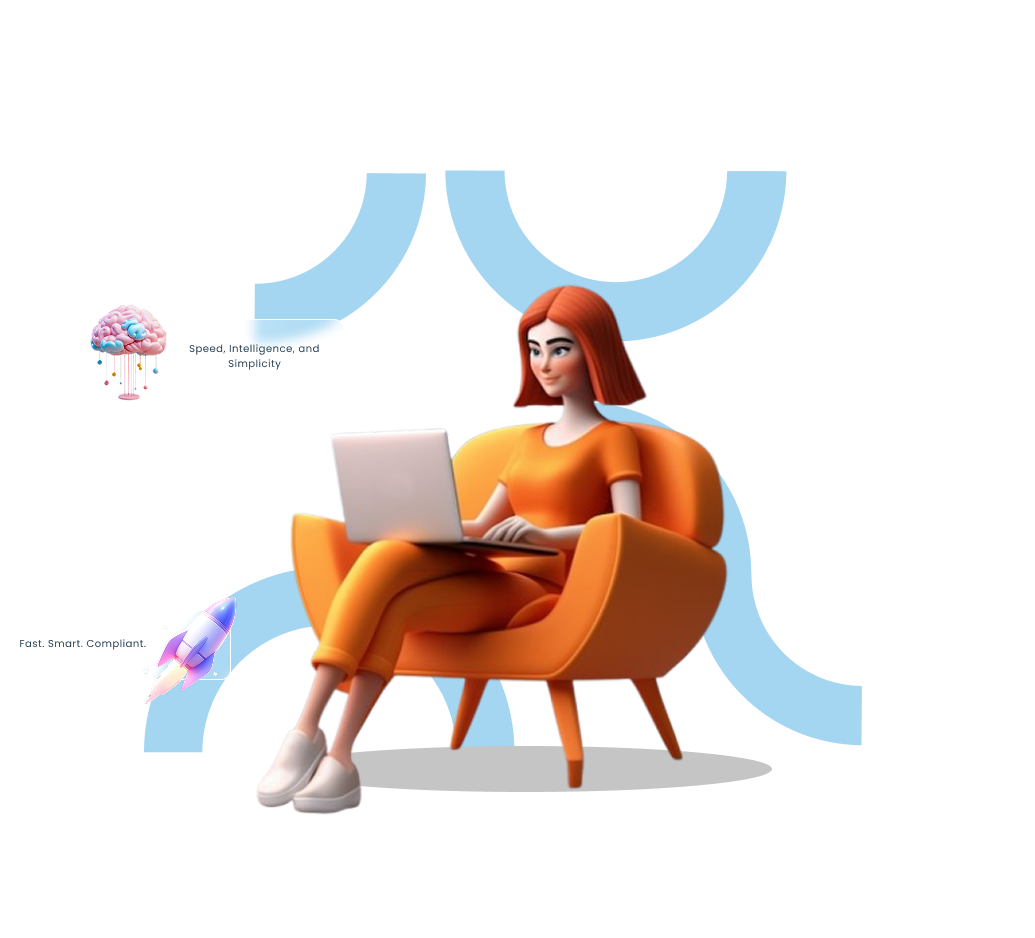
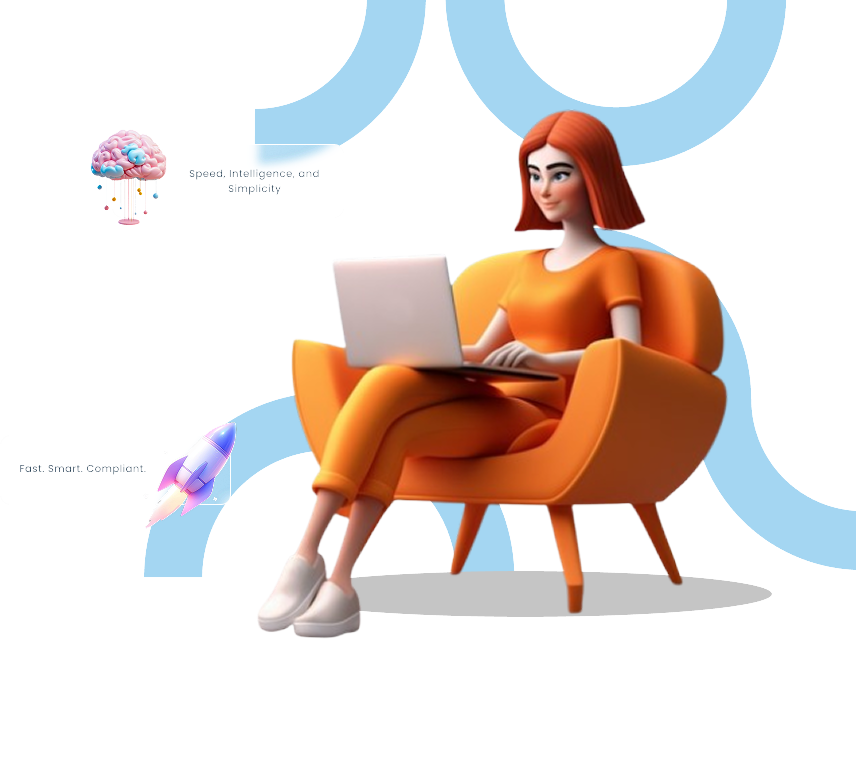
landing section fixed

diff --git a/src/Component/Landing.jsx b/src/Component/Landing.jsx
@@ -4,30 +4,33 @@
 const Landing = () => {
    return (
     <div className="bg-white flex justify-center xl:px-20 lg:px-16 px-6 ">
-   <div className="bg-[#E2F4FE] flex items-center rounded-4xl w-full xl:h-[33rem] lg:h-[28rem] lg:px-20 md:px-9 px-2 py-6 sm:px-5">
-     <div className="w-full sm:w-1/2  xl:py-10   text-center sm:text-left ">
-       <h1 className="text-[#253E52] font-bold xl:text-[40px] sm:text-xl  xl:leading-14 sm:leading-8 sm:pb-7 pb-3 tracking-wide md:text-[25px] md:leading-10 text-[20px] lg:text-3xl lg:leading-12   ">
-        Accelerating Legal <br /> Innovation: Smarter <br /> Tools, Faster Outcomes
-      </h1>  <p className="text-[#787878] xl:text-[18px] font-light xl:leading-[28px] lg:pt-4  md:text-[14px]  text-[10px] sm:text-[10px]">
-         Making legal processes faster and smarter with <br />
-         technology. Simplify compliance, reduce <br />
-        complexity, and stay ahead with Datence.
-      </p>
-      <div className="mt-8">
-        <button className="text-[#253E52] border-2 rounded-md border-[#253E52] px-6 py-2 hover:bg-[#253E52] hover:text-white transition">
-           Know more
-        </button>
-      </div>
-    </div>
-
-    <div className="hidden  sm:w-1/2 sm:flex justify-end ">
-       <img
-        src={header}
-        className="w-full 2xl:scale-150 lg:scale-160 xl:scale-125 relative xl:bottom-15 lg:bottom-13 lg:left-17 xl:left-30 left-24 h-auto object-cover rounded-2xl  md:scale-125    md:left-15 md:bottom-7  sm:bottom-10 sm:left-7 sm:scale-135"
-         alt="Header Image"
-      />
+   <div className="relative bg-[#E2F4FE] flex items-center rounded-4xl w-full xl:h-[33rem] lg:h-[28rem] lg:px-20 md:px-9 px-2 py-6 sm:px-5">
+  <div className="w-full sm:w-1/2 xl:py-10 text-center sm:text-left">
+    <h1 className="text-[#253E52] font-bold xl:text-[40px] sm:text-xl xl:leading-14 sm:leading-8 sm:pb-7 pb-3 tracking-wide md:text-[25px] md:leading-10 text-[20px] lg:text-3xl lg:leading-12">
+      Accelerating Legal <br /> Innovation: Smarter <br /> Tools, Faster Outcomes
+    </h1>
+    <p className="text-[#787878] xl:text-[18px] font-light xl:leading-[28px] lg:pt-4 md:text-[14px] text-[10px] sm:text-[10px]">
+      Making legal processes faster and smarter with <br />
+      technology. Simplify compliance, reduce <br />
+      complexity, and stay ahead with Datence.
+    </p>
+    <div className="mt-8">
+      <button className="text-[#253E52] border-2 rounded-md border-[#253E52] px-6 py-2 hover:bg-[#253E52] hover:text-white transition">
+        Know more
+      </button>
     </div>
   </div>
+
+  {/* Image Section */}
+  <div className=" w-1/2 h-full hidden sm:block absolute top-0 right-0">
+    <img
+      src={header}
+      className="absolute top-0 right-0 h-full object-cover "
+      alt="Header Image"
+    />
+  </div>
+</div>
+
 </div>
 
   )
